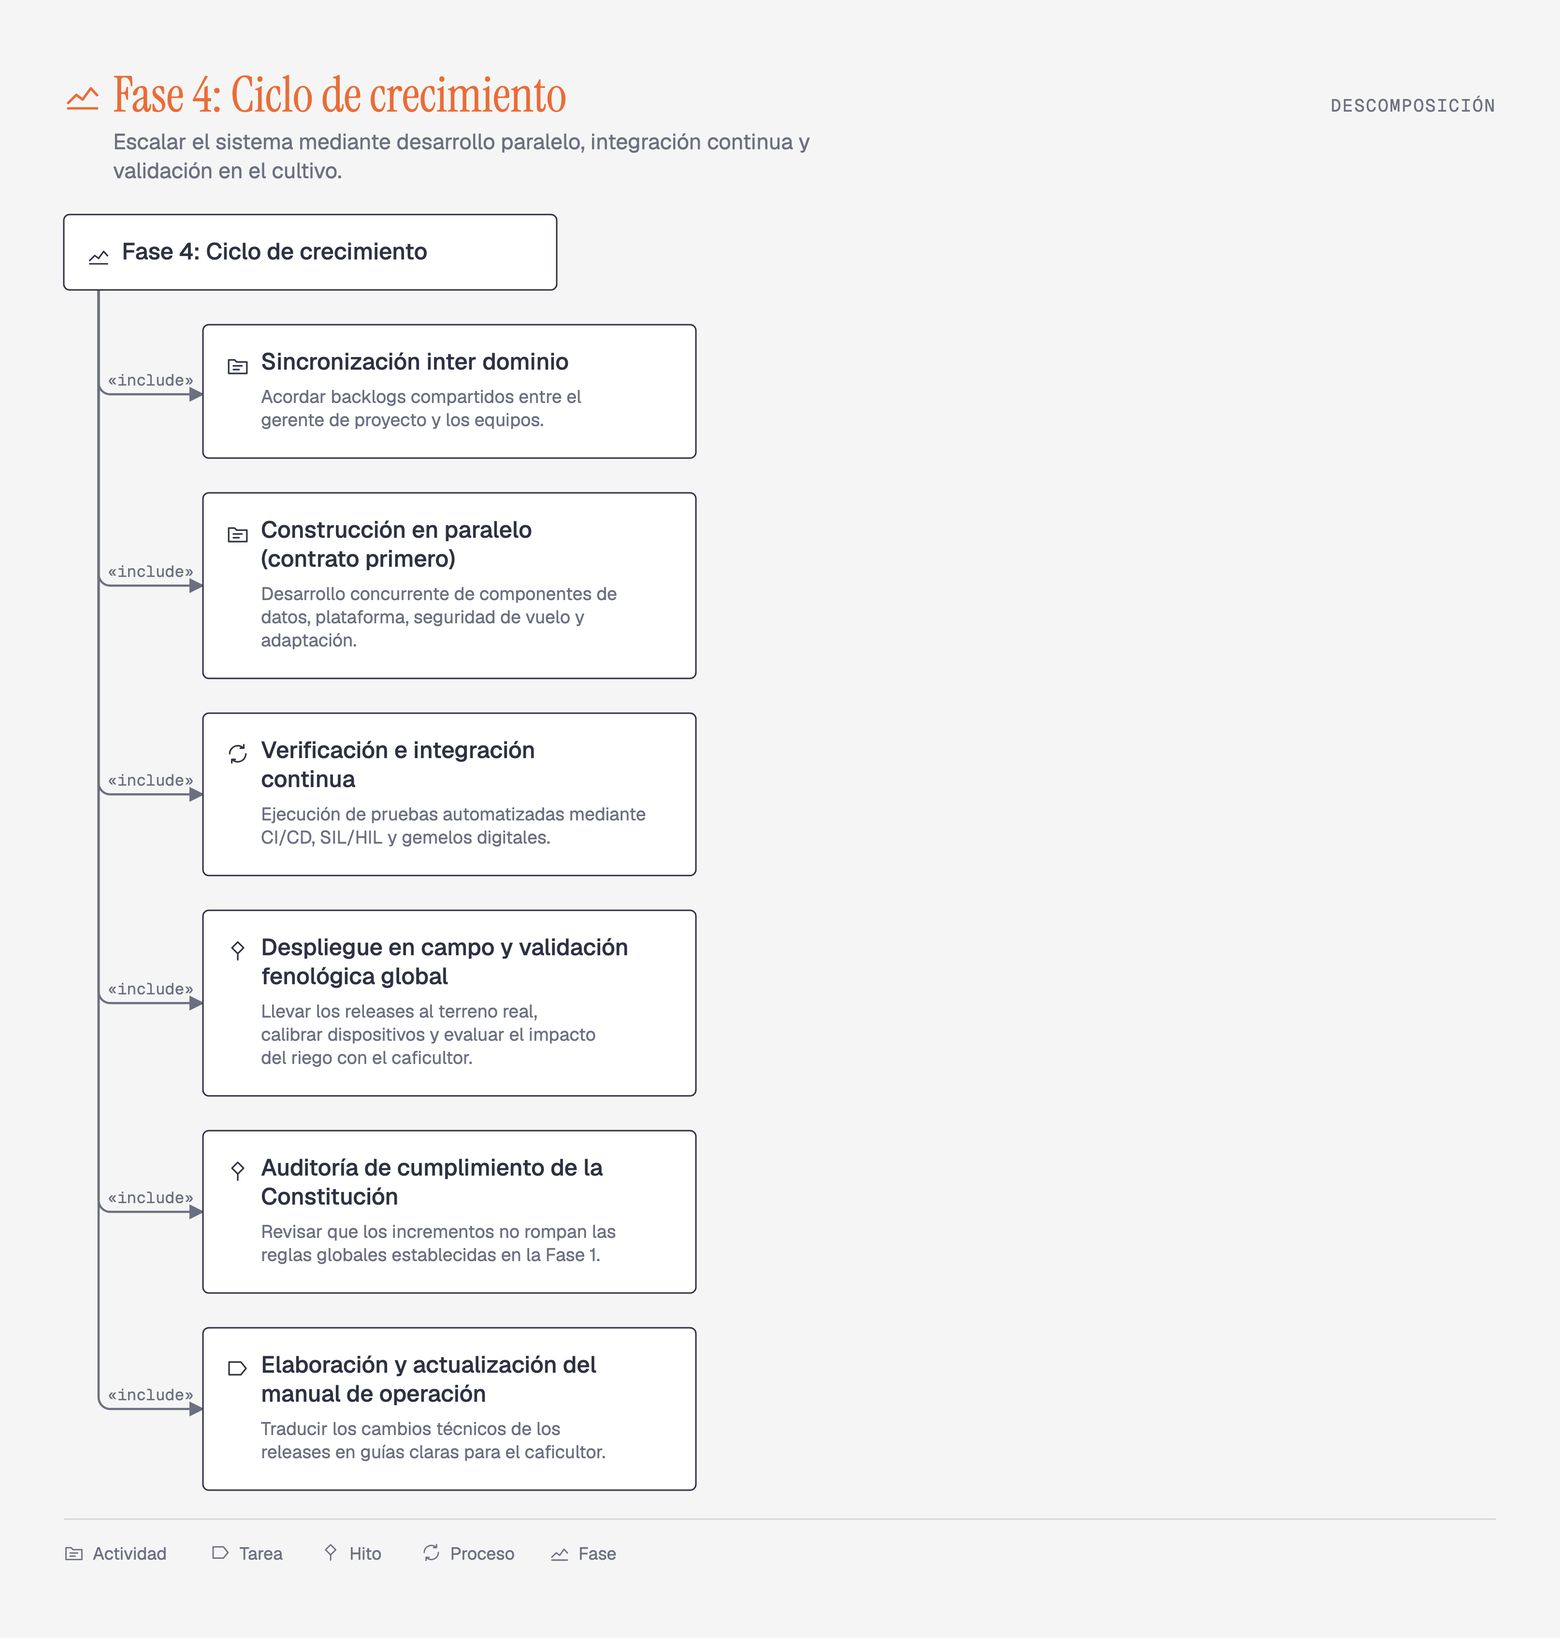
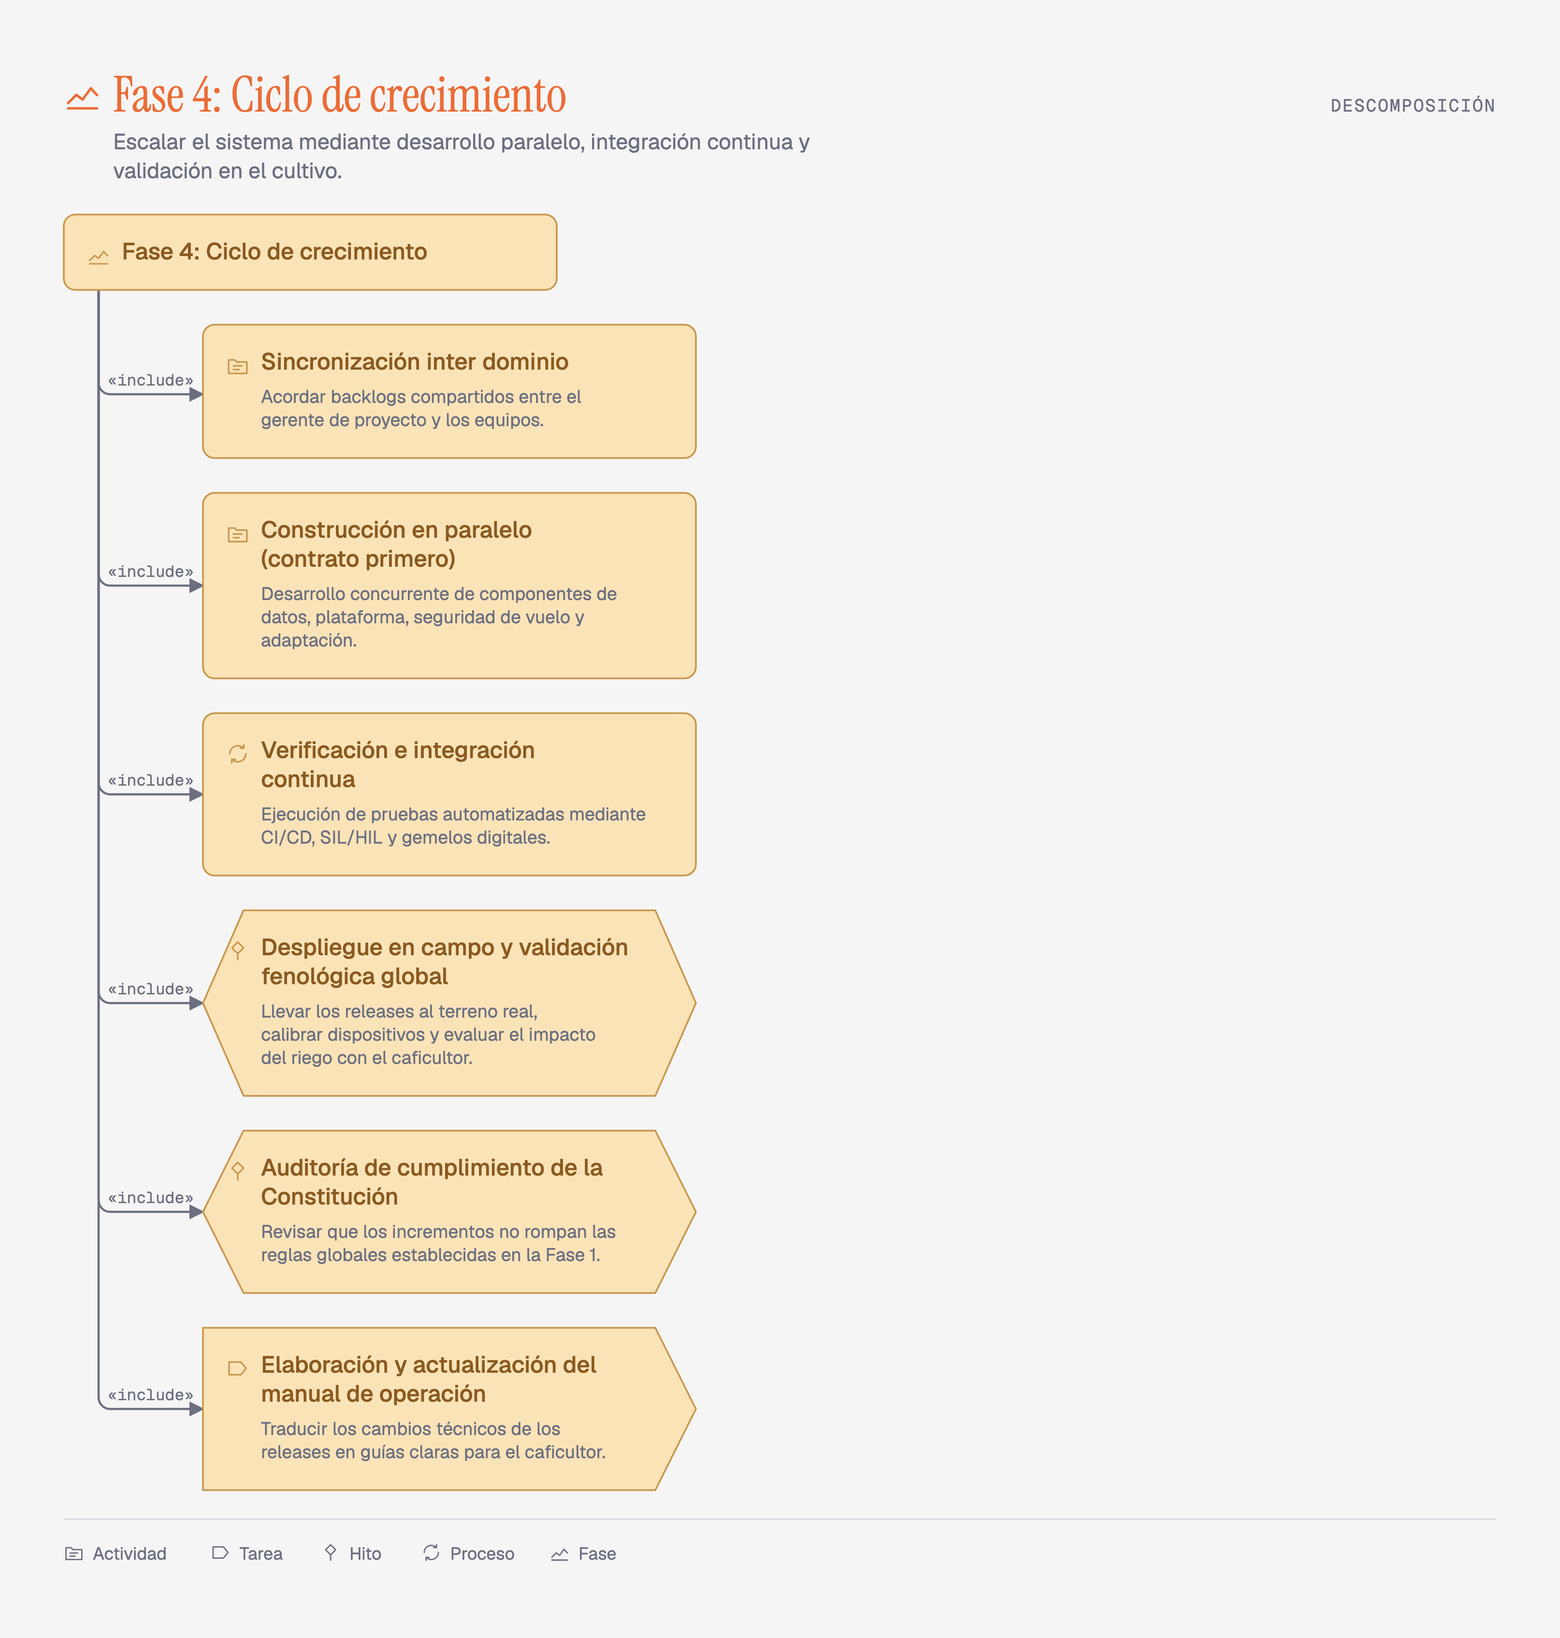
feat: las figuras adoptan la notación EPF Composer / SPEM Designer

Changed region(s): [[0.031, 0.1239, 0.4647, 0.9292]]

diff --git a/scripts/epf.tsx b/scripts/epf.tsx
@@ -1,0 +1,187 @@
+/**
+ * The four Fases redrawn in the EPF Composer / SPEM Designer notation:
+ * Roles on the left, the chain of Tareas down the middle, Productos de Trabajo on
+ * the right, edges carrying the SPEM 2.0 stereotypes. `npm run epf`
+ */
+import { execFileSync } from "node:child_process";
+import { mkdirSync, rmSync, writeFileSync } from "node:fs";
+import fuentes from "../src/fuentes.css?inline";
+import { wrap } from "../src/layout";
+import { seed } from "../src/seed";
+import type { Fase, Producto, Tarea } from "../src/modelo";
+import type { IdIcono } from "../src/iconos";
+
+// The SPEM Designer / EPF Composer palette: cream fills, tan strokes, brown labels.
+const CREMA = "#fbe3b8", TAN = "#c8964b", MARRON = "#8a5a20", TINTA = "#3a3a44",
+  GRIS = "#6f6f8c", PAPEL = "#ffffff", AZUL = "#4a72c4", REGLA = "#d9d9e0";
+
+const esc = (s: string) => s.replace(/&/g, "&amp;").replace(/</g, "&lt;").replace(/>/g, "&gt;");
+const T = (t: string, x: number, y: number, o: { fs?: number; f?: string; w?: number; fill?: string; a?: string; ls?: string } = {}) =>
+  `<text x="${x}" y="${y}" fill="${o.fill ?? TINTA}" font-size="${o.fs ?? 11}" font-weight="${o.w ?? 400}" font-family="${o.f ?? "Geist, sans-serif"}" text-anchor="${o.a ?? "start"}"${o.ls ? ` letter-spacing="${o.ls}"` : ""}>${esc(t)}</text>`;
+
+// ------------------------------------------------------------------ glifos EPF
+/** Role: head over shoulders, the SPEM Designer "role use" glyph. */
+const gRol = (x: number, y: number) =>
+  `<ellipse cx="${x + 14}" cy="${y + 8}" rx="8" ry="6" fill="${CREMA}" stroke="${TAN}"/>
+<path d="M${x + 4} ${y + 26} a10 8 0 0 1 20 0 z" fill="${CREMA}" stroke="${TAN}"/>`;
+
+/** Work product: folded-corner document with ruled blue lines. */
+const gDoc = (x: number, y: number, azul = true) =>
+  `<path d="M${x + 3} ${y} h13 l7 7 v19 h-20 z" fill="${CREMA}" stroke="${TAN}"/>
+<path d="M${x + 16} ${y} v7 h7" fill="none" stroke="${TAN}"/>` +
+  (azul ? [11, 14, 17, 20, 23].map((d) => `<line x1="${x + 6}" y1="${y + d}" x2="${x + 20}" y2="${y + d}" stroke="${AZUL}" stroke-width="1.4"/>`).join("") : "");
+
+/** Guidance: the stepped blue glyph EPF uses for guidelines and checklists. */
+const gGuia = (x: number, y: number) =>
+  `<path d="M${x + 4} ${y + 26} v-8 h6 v-6 h6 v-8 h7 v22 z" fill="#9dc6ef" stroke="${AZUL}"/>`;
+
+/** Tool: the wrench EPF puts on tool mentors. */
+const gTool = (x: number, y: number) =>
+  `<path d="M${x + 20} ${y + 4} a6 6 0 0 0 -7.4 9.2 l-7.2 7.2 a2.4 2.4 0 0 0 3.4 3.4 l7.2 -7.2 a6 6 0 0 0 9.2 -7.4 l-4 4 -3.4-0.9 -0.9-3.4 z" transform="scale(0.82) translate(${x * 0.22}, ${y * 0.22})" fill="${CREMA}" stroke="${TAN}"/>`;
+
+const gProducto = (p: Producto, x: number, y: number) =>
+  p.icono === "metric" ? gGuia(x, y) : p.icono === "tool" ? gTool(x, y) : gDoc(x, y);
+
+const FORMA: Record<string, "chevron" | "diamante" | "redondo"> = {
+  task: "chevron", activity: "redondo", process: "redondo", milestone: "diamante",
+};
+
+/** Rounded right-angle elbow: horizontal, then vertical, then horizontal. */
+const elbow = (x1: number, y1: number, x2: number, y2: number, r = 8, xm = (x1 + x2) / 2) => {
+  if (Math.abs(y1 - y2) < 1) return `M${x1} ${y1} H${x2}`;
+  const s = Math.sign(x2 - x1), v = Math.sign(y2 - y1);
+  return `M${x1} ${y1} H${xm - r * s} Q${xm} ${y1} ${xm} ${y1 + r * v} V${y2 - r * v} Q${xm} ${y2} ${xm + r * s} ${y2} H${x2}`;
+};
+/** Horizontal run, one quarter-arc, then vertical run (and the mirror image). */
+const codoHV = (x1: number, y1: number, x2: number, y2: number, r = 8) => {
+  const s = Math.sign(x2 - x1), v = Math.sign(y2 - y1);
+  return `M${x1} ${y1} H${x2 - r * s} Q${x2} ${y1} ${x2} ${y1 + r * v} V${y2}`;
+};
+const codoVH = (x1: number, y1: number, x2: number, y2: number, r = 8) => {
+  const s = Math.sign(x2 - x1), v = Math.sign(y2 - y1);
+  return `M${x1} ${y1} V${y2 - r * v} Q${x1} ${y2} ${x1 + r * s} ${y2} H${x2}`;
+};
+const arista = (d: string, etiqueta: string, ex: number, ey: number) =>
+  `<path d="${d}" fill="none" stroke="${GRIS}" stroke-width="1" marker-end="url(#punta)"/>
+<rect x="${ex - etiqueta.length * 2.7 - 4}" y="${ey - 9}" width="${etiqueta.length * 5.4 + 8}" height="12" fill="${PAPEL}"/>
+${T(etiqueta, ex, ey, { fs: 8, fill: GRIS, f: "'Geist Mono', monospace", a: "middle" })}`;
+
+// ------------------------------------------------------------------ medidas
+const W = 1320, XR = 48, WR = 250, XT = 460, WT = 380, XP = 940, WP = 340;
+const alturaTexto = (t: string, fs: number, w: number) => wrap(t, fs, w).length;
+const altoRoles = (t: Tarea) => t.roles.reduce((h, r) => h + Math.max(32, alturaTexto(r.rol, 10, WR - 40) * 13 + 14) + 12, 0) - 12;
+const altoProds = (ps: Producto[]) => (ps.length ? ps.reduce((h, p) => h + Math.max(32, alturaTexto(p.texto, 10, WP - 44) * 13 + 12) + 12, 0) - 12 : 0);
+const altoTarea = (t: Tarea) => Math.max(76, alturaTexto(t.nombre, 12, WT - 96) * 15 + 44);
+
+// ------------------------------------------------------------------ figura
+function figura(f: Fase) {
+  const cuerpo: string[] = [];
+  let y = 132;
+
+  f.tareas.forEach((t, i) => {
+    const hR = altoRoles(t), hT = altoTarea(t);
+    const hIn = altoProds(t.entrada), hOut = altoProds(t.salida);
+    // Entrada arriba, Tarea al centro, Salida abajo: ninguna flecha cruza la Tarea.
+    const hBanda = hIn + (hIn ? 40 : 0) + hT + (hOut ? 40 : 0) + hOut;
+    const H = Math.max(hR, hBanda);
+    const top = y, cy = top + H / 2;
+    const ty = cy - hBanda / 2 + hIn + (hIn ? 40 : 0);
+
+    // --- Roles, left column, each with its own attach point on the Tarea's left edge.
+    let ry = ty + hT / 2 - hR / 2;
+    t.roles.forEach((r, k) => {
+      const lineas = wrap(r.rol, 10, WR - 44);
+      const hFila = Math.max(32, lineas.length * 13 + 14);
+      cuerpo.push(gRol(XR, ry + hFila / 2 - 14));
+      lineas.forEach((l, j) => cuerpo.push(T(l, XR + 34, ry + hFila / 2 - (lineas.length - 1) * 6.5 + j * 13 + 4, { fs: 10, fill: MARRON })));
+      const ay = ty + (hT * (k + 1)) / (t.roles.length + 1);
+      cuerpo.push(arista(elbow(XR + WR - 8, ry + hFila / 2, XT - 6, ay, 8, XT - 32 - k * 20),
+        r.papel === "perform" ? "<<performs, primary>>" : "<<assists>>",
+        XR + WR + 62, ry + hFila / 2 - 8));
+      ry += hFila + 12;
+    });
+
+    // --- La Tarea. Forma segun su tipo SPEM.
+    const forma = FORMA[t.icono] ?? "chevron";
+    const p = 28;
+    cuerpo.push(
+      forma === "chevron"
+        ? `<path d="M${XT} ${ty} H${XT + WT - p} L${XT + WT} ${ty + hT / 2} L${XT + WT - p} ${ty + hT} H${XT} Z" fill="${CREMA}" stroke="${TAN}" stroke-width="1.2"/>`
+        : forma === "diamante"
+          ? `<path d="M${XT} ${ty + hT / 2} L${XT + 40} ${ty} H${XT + WT - 40} L${XT + WT} ${ty + hT / 2} L${XT + WT - 40} ${ty + hT} H${XT + 40} Z" fill="${CREMA}" stroke="${TAN}" stroke-width="1.2"/>`
+          : `<rect x="${XT}" y="${ty}" width="${WT}" height="${hT}" rx="10" fill="${CREMA}" stroke="${TAN}" stroke-width="1.2"/>`,
+    );
+    const et = { task: "Tarea", activity: "Actividad", process: "Proceso", milestone: "Hito" }[t.icono as string] ?? "Tarea";
+    cuerpo.push(T(`<<${et}>>`, XT + WT / 2 - 20, ty + 20, { fs: 8, fill: GRIS, f: "'Geist Mono', monospace", a: "middle" }));
+    wrap(t.nombre, 12, WT - 96).forEach((l, j) =>
+      cuerpo.push(T(l, XT + WT / 2 - 20, ty + 40 + j * 15, { fs: 12, w: 600, fill: MARRON, a: "middle" })));
+
+    // --- Productos de Trabajo, right column: Entrada arriba, Salida abajo.
+    let py = cy - hBanda / 2;
+    const dibujaProds = (ps: Producto[], entrada: boolean) => {
+      ps.forEach((prod, k) => {
+        const lineas = wrap(prod.texto, 10, WP - 44);
+        const hFila = Math.max(32, lineas.length * 13 + 12);
+        cuerpo.push(gProducto(prod, XP, py + hFila / 2 - 14));
+        lineas.forEach((l, j) => cuerpo.push(T(l, XP + 34, py + hFila / 2 - (lineas.length - 1) * 6.5 + j * 13 + 4, { fs: 10, fill: MARRON })));
+        const n = ps.length;
+        // Entradas entran por el borde superior, Salidas por el inferior: cada una
+        // con su propia x, para que ninguna flecha tape a otra.
+        const ax = XT + 140 + ((WT - 200) * (k + 1)) / (n + 1);
+        const ey = py + hFila / 2, lx = XP - 96;
+        cuerpo.push(entrada
+          ? arista(codoHV(XP - 8, ey, ax, ty), "<<input, mandatory>>", lx, ey - 8)
+          : arista(codoVH(ax, ty + hT, XP - 8, ey), "<<output, mandatory>>", lx, ey - 8));
+        py += hFila + 12;
+      });
+    };
+    dibujaProds(t.entrada, true);
+    py = ty + hT + 40;
+    dibujaProds(t.salida, false);
+
+    // --- Chain to the next Tarea: same x, so a straight segment is right.
+    if (i < f.tareas.length - 1)
+      cuerpo.push(`<line x1="${XT + 48}" y1="${ty + hT + 4}" x2="${XT + 48}" y2="${top + H + 44}" stroke="${GRIS}" stroke-width="1" marker-end="url(#punta)"/>`);
+    y = top + H + 56;
+  });
+
+  const leyY = y + 8;
+  const tipos: [string, string][] = [["rol", "Rol"], ["doc", "Producto de Trabajo"], ["guia", "Guía / Métrica"], ["tool", "Herramienta"]];
+  const leyenda = [`<line x1="${XR}" y1="${leyY}" x2="${W - XR}" y2="${leyY}" stroke="${REGLA}"/>`,
+    T("LEYENDA SPEM 2.0", XR, leyY + 22, { fs: 8, fill: GRIS, f: "'Geist Mono', monospace", ls: "0.14em" })];
+  tipos.forEach(([id, nombre], i) => {
+    const x = 240 + i * 250, gy = leyY + 6;
+    leyenda.push(id === "rol" ? gRol(x, gy) : id === "doc" ? gDoc(x, gy) : id === "guia" ? gGuia(x, gy) : gTool(x, gy));
+    leyenda.push(T(nombre, x + 34, leyY + 23, { fs: 9, fill: GRIS }));
+  });
+
+  const h = leyY + 56;
+  const [n0, n1] = [f.nombre.split(":")[0], f.nombre.split(": ")[1]];
+  return `<svg viewBox="0 0 ${W} ${h}" width="${W}" height="${h}" role="img" aria-labelledby="${f.id}-t ${f.id}-d" xmlns="http://www.w3.org/2000/svg">
+<title id="${f.id}-t">${esc(f.nombre)}</title>
+<desc id="${f.id}-d">${esc(`${f.objetivo} Notación EPF/SPEM 2.0: Roles a la izquierda, la cadena de Tareas al centro, los Productos de Trabajo a la derecha.`)}</desc>
+<defs><marker id="punta" markerWidth="9" markerHeight="7" refX="8" refY="3.5" orient="auto"><polygon points="0 0, 9 3.5, 0 7" fill="${GRIS}"/></marker></defs>
+<rect width="100%" height="100%" fill="${PAPEL}"/>
+${T(n0.toUpperCase(), XR, 44, { fs: 9, fill: GRIS, f: "'Geist Mono', monospace", ls: "0.16em" })}
+${T(n1, XR, 78, { fs: 26, f: "'Instrument Serif', Georgia, serif", fill: TINTA })}
+${T(f.objetivo, XR, 102, { fs: 11, fill: GRIS })}
+${T("ROLES", XR, 124, { fs: 8, fill: GRIS, f: "'Geist Mono', monospace", ls: "0.14em" })}
+${T("TAREAS", XT, 124, { fs: 8, fill: GRIS, f: "'Geist Mono', monospace", ls: "0.14em" })}
+${T("PRODUCTOS DE TRABAJO", XP, 124, { fs: 8, fill: GRIS, f: "'Geist Mono', monospace", ls: "0.14em" })}
+${cuerpo.join("\n")}
+${leyenda.join("\n")}
+</svg>`;
+}
+
+mkdirSync("figuras", { recursive: true });
+const CHROME = "/Applications/Google Chrome.app/Contents/MacOS/Google Chrome";
+for (const f of seed().fases) {
+  const svg = figura(f);
+  const [, w, h] = svg.match(/viewBox="0 0 (\d+) ([\d.]+)"/)!;
+  const base = `figuras/epf-${f.id}`;
+  writeFileSync(`${base}.tmp.html`, `<!doctype html><meta charset="utf-8"><style>${fuentes}body{margin:0;background:#fff}</style>${svg}`);
+  execFileSync(CHROME, ["--headless", "--disable-gpu", "--hide-scrollbars", "--force-device-scale-factor=2",
+    `--window-size=${w},${Math.ceil(+h)}`, `--screenshot=${base}.png`, `file://${process.cwd()}/${base}.tmp.html`]);
+  rmSync(`${base}.tmp.html`);
+  console.log(`${base}.png  ${w}x${Math.ceil(+h)}`);
+}

diff --git a/src/formas.ts b/src/formas.ts
@@ -1,0 +1,43 @@
+import type { IdIcono } from "./iconos";
+
+/**
+ * The outline EPF Composer / SPEM Designer draws for each SPEM 2.0 element:
+ * a chevron for work (Tarea, Paso), a hexagon for a Hito, a rounded box for the
+ * containers (Actividad, Proceso, Fase, Iteración). Everything else stays square.
+ */
+export type Forma = "chevron" | "hexagono" | "redondo" | "caja";
+
+export const FORMA: Record<IdIcono, Forma> = {
+  task: "chevron",
+  step: "chevron",
+  milestone: "hexagono",
+  activity: "redondo",
+  activityEmpty: "redondo",
+  process: "redondo",
+  phase: "redondo",
+  iteration: "redondo",
+  category: "caja",
+  role: "caja",
+  roleUse: "caja",
+  workProduct: "caja",
+  tool: "caja",
+  metric: "caja",
+  teamProfile: "caja",
+};
+
+/** The path of a node's outline. `punta` is clamped so a short node keeps its shape. */
+export function contorno(icono: IdIcono, x: number, y: number, w: number, h: number): string {
+  const forma = FORMA[icono] ?? "caja";
+  const punta = Math.min(28, w / 4, h / 2);
+  const r = 8;
+  switch (forma) {
+    case "chevron":
+      return `M${x} ${y} H${x + w - punta} L${x + w} ${y + h / 2} L${x + w - punta} ${y + h} H${x} Z`;
+    case "hexagono":
+      return `M${x} ${y + h / 2} L${x + punta} ${y} H${x + w - punta} L${x + w} ${y + h / 2} L${x + w - punta} ${y + h} H${x + punta} Z`;
+    case "redondo":
+      return `M${x + r} ${y} H${x + w - r} A${r} ${r} 0 0 1 ${x + w} ${y + r} V${y + h - r} A${r} ${r} 0 0 1 ${x + w - r} ${y + h} H${x + r} A${r} ${r} 0 0 1 ${x} ${y + h - r} V${y + r} A${r} ${r} 0 0 1 ${x + r} ${y} Z`;
+    default:
+      return `M${x} ${y} H${x + w} V${y + h} H${x} Z`;
+  }
+}

diff --git a/src/estilos.css b/src/estilos.css
@@ -5,6 +5,10 @@
   --muted: #6b6f80;
   --rule: #d6d7de;
   --card: #ffffff;
+  /* Paleta EPF Composer / SPEM Designer: relleno crema, borde tostado, rotulo marron. */
+  --epf-relleno: #fbe3b8;
+  --epf-borde: #c8964b;
+  --epf-texto: #8a5a20;
   --serif: "Instrument Serif", Georgia, "Times New Roman", serif;
   --sans: Geist, system-ui, -apple-system, "Helvetica Neue", sans-serif;
   --mono: "Geist Mono", ui-monospace, "SF Mono", Menlo, monospace;
@@ -169,7 +173,7 @@ nav.vistas {
 .t-objetivo { font-size: 15px; fill: var(--muted); }
 .t-nodo { font-size: 16px; font-weight: 500; }
 .t-desc { font-size: 12.5px; fill: var(--muted); }
-.t-item { font-size: 13px; }
+.t-item { font-size: 13px; fill: var(--epf-texto); }
 .leyenda { color: var(--muted); }
 .leyenda line { stroke: var(--rule); }
 .t-leyenda { font-size: 12px; fill: var(--muted); }
@@ -188,12 +192,13 @@ nav.vistas {
 .chip rect { fill: none; stroke: var(--rule); }
 .chip text { font-family: var(--mono); font-size: 12px; fill: var(--muted); text-anchor: middle; }
 
-.panel { color: var(--muted); }
-.panel rect { fill: var(--card); stroke: var(--rule); }
+.panel { color: var(--epf-borde); }
+.panel rect { fill: var(--card); stroke: var(--epf-borde); }
 .panel-salida rect { stroke: var(--accent); }
 
-.nodo { color: var(--ink); }
-.nodo rect { fill: var(--card); stroke: var(--ink); }
+.nodo { color: var(--epf-borde); }
+.nodo .caja { fill: var(--epf-relleno); stroke: var(--epf-borde); stroke-width: 1.2; }
+.t-nodo { fill: var(--epf-texto); }
 .flecha { fill: none; stroke: var(--muted); stroke-width: 1.5; }
 
 /* Entry motion: nodes settle in sequence, arrows draw themselves. */

diff --git a/src/__tests__/formas.test.ts b/src/__tests__/formas.test.ts
@@ -1,0 +1,23 @@
+import { describe, expect, it } from "vitest";
+import { contorno, FORMA } from "../formas";
+import { IDS_ICONO } from "../iconos";
+
+describe("contorno", () => {
+  it("da una forma a los quince tipos SPEM", () => {
+    for (const id of IDS_ICONO) expect(FORMA[id]).toBeTruthy();
+  });
+
+  it("el chevron de una Tarea acaba en punta y cierra", () => {
+    const d = contorno("task", 0, 0, 200, 80);
+    expect(d).toContain("L200 40");
+    expect(d.endsWith("Z")).toBe(true);
+  });
+
+  it("el Hito es un hexágono con dos puntas", () => {
+    expect(contorno("milestone", 0, 0, 200, 80)).toMatch(/^M0 40 L28 0/);
+  });
+
+  it("una caja estrecha no invierte la punta", () => {
+    expect(contorno("task", 0, 0, 40, 20)).toContain("H30");
+  });
+});

diff --git a/src/Diagrama.tsx b/src/Diagrama.tsx
@@ -1,4 +1,5 @@
 import { CAJA, ICONOS, type IdIcono } from "./iconos";
+import { contorno } from "./formas";
 import { ESCALA, type DiagramLayout } from "./layout";
 
 const {
@@ -166,7 +167,8 @@ export function Diagrama({ l, faseId }: Props) {
           className="nodo"
           style={{ "--i": i } as React.CSSProperties}
         >
-          <rect x={nodo.x} y={nodo.y} width={nodo.w} height={nodo.h} rx={4} />
+          {/* EPF Composer da forma al nodo segun su Tipo SPEM: chevron, hexagono o caja. */}
+          <path className="caja" d={contorno(nodo.icono, nodo.x, nodo.y, nodo.w, nodo.h)} />
           <Icono id={nodo.icono} x={nodo.iconoX} y={nodo.iconoY} tam={IC.nodo} />
           {nodo.lineas.map((linea, j) => (
             <text

diff --git a/docs/adr/0007-notacion-epf-composer.md b/docs/adr/0007-notacion-epf-composer.md
@@ -1,0 +1,37 @@
+# ADR-0007 — Las figuras adoptan la notación de EPF Composer / SPEM Designer
+
+Fecha: 2026-08-27
+Estado: aceptada
+
+## Contexto
+
+Las figuras se leían como un diagrama editorial genérico: cajas iguales, papel gris,
+acento coral. Quien revisa el documento *Modelo de procesos* espera la notación con la
+que se publican los métodos SPEM 2.0: la de **EPF Composer** (Eclipse Process Framework)
+y la de **SPEM Designer** (ObeoNetwork), que comparten paleta y repertorio de formas.
+
+## Decisión
+
+Se adopta esa notación en las cuatro **Vistas**:
+
+- **Paleta**: relleno crema `#fbe3b8`, borde tostado `#c8964b`, rótulo marrón `#8a5a20`
+  (`--epf-relleno`, `--epf-borde`, `--epf-texto` en `src/estilos.css`).
+- **Forma por Tipo SPEM** (`src/formas.ts`): chevron para **Tarea** y Paso, hexágono
+  para **Hito**, caja redondeada para Actividad, Proceso, **Fase** e Iteración, caja
+  recta para el resto.
+- **Estereotipos OMG** sobre las aristas, ya presentes: `«input, mandatory»`,
+  `«output, mandatory»`, `«perform»`, `«assist»`, `«include»`.
+
+`npm run epf` genera además una figura por **Fase** en el layout clásico de EPF
+—**Roles** a la izquierda, la cadena de **Tareas** al centro, **Productos de Trabajo**
+a la derecha— para pegar en el documento sin pasar por el editor.
+
+## Consecuencias
+
+- El acento coral queda solo en el título de la **Fase**; el color de los nodos ya no
+  lo aporta el style guide sino la paleta EPF. ADR-0005 sigue vigente para tipografía.
+- La forma del nodo pasa a depender del **Tipo SPEM**, así que cambiar el icono de una
+  **Tarea** en el editor también cambia su contorno. Es intencional: en EPF el icono y
+  la forma dicen lo mismo.
+- EPF limita la variabilidad de contenido a mapeos uno a uno; como aquí no hay capa de
+  Method Content (ADR-0001), esa limitación no nos alcanza.
